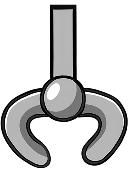
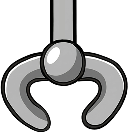
Category modal: transparent header + taller content frame
- Remove grey header bar; tabs now sit directly on modal bg
- Update categroy-decor-3 image and reposition to top:64
- Frame extends to match Figma: margin-top 0, margin-bottom 30

diff --git a/src/components/LearningPage.jsx b/src/components/LearningPage.jsx
@@ -1752,11 +1752,10 @@ export default function LearningPage({
             {/* Content layer — fixed shell */}
             <div className="relative flex flex-col h-full">
 
-              {/* ── Fixed top: Blue header bar ── */}
+              {/* ── Fixed top: Transparent header — tabs sit directly on modal bg ── */}
               <div className="shrink-0" style={{
-                backgroundColor: '#646464', borderBottom: '2px solid #000',
-                padding: '17px 16px 14px', position: 'relative', zIndex: 3,
-                display: 'flex', alignItems: 'center', justifyContent: 'center', gap: 10,
+                padding: '15px 16px 15px', position: 'relative', zIndex: 3,
+                display: 'flex', alignItems: 'center', justifyContent: 'center', gap: 9,
               }}>
                 <button
                   onClick={() => setShowCategories(false)}
@@ -1791,13 +1790,13 @@ export default function LearningPage({
                 })}
               </div>
 
-              {/* Dog mascot decoration overlapping header */}
+              {/* Dog mascot decoration overlapping content frame top-left */}
               <img src="/assets/figma/categroy-decor-3.png" alt="" className="pointer-events-none"
-                style={{ position: 'absolute', left: 14, top: 48, width: 43, height: 58, zIndex: 2 }} />
+                style={{ position: 'absolute', left: 19, top: 64, width: 43, height: 46, zIndex: 2 }} />
 
               {/* ── Middle: Bordered content frame (outer fixed, inner scrollable) ── */}
               <div className="flex-1 relative overflow-hidden" style={{
-                margin: '20px 13px 10px',
+                margin: '0 13px 30px',
                 border: '2px solid #000', borderRadius: 10,
               }}>
                 {/* Beach background image inside the frame */}
